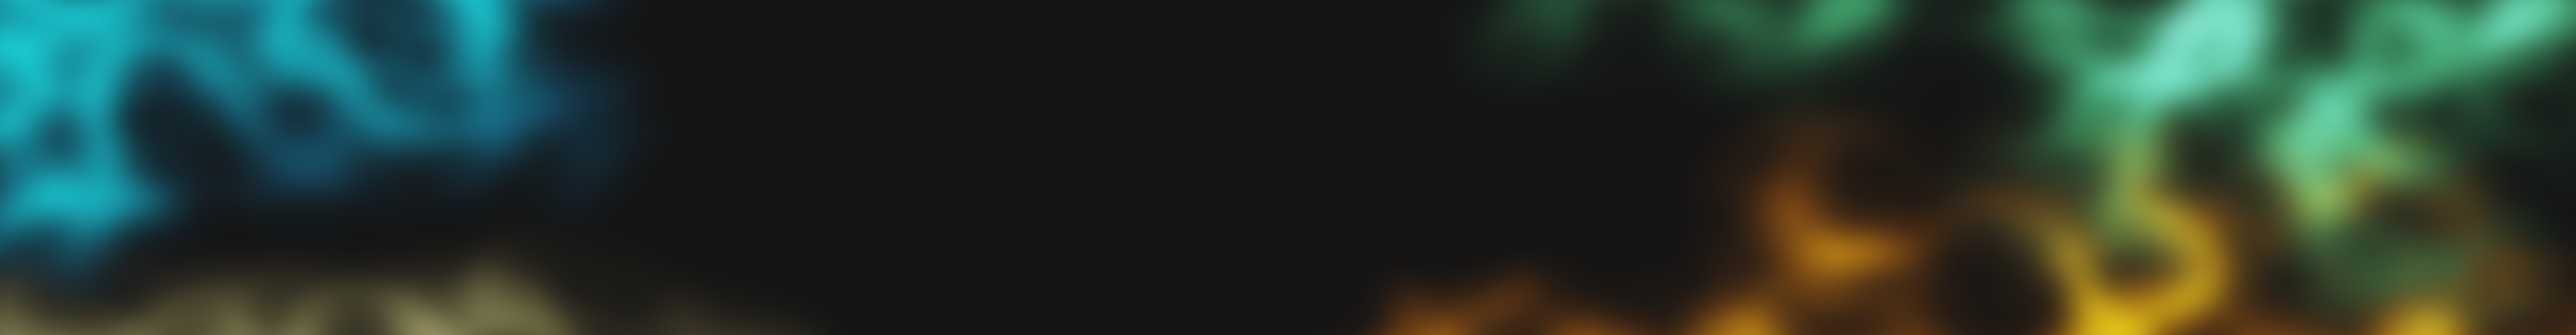
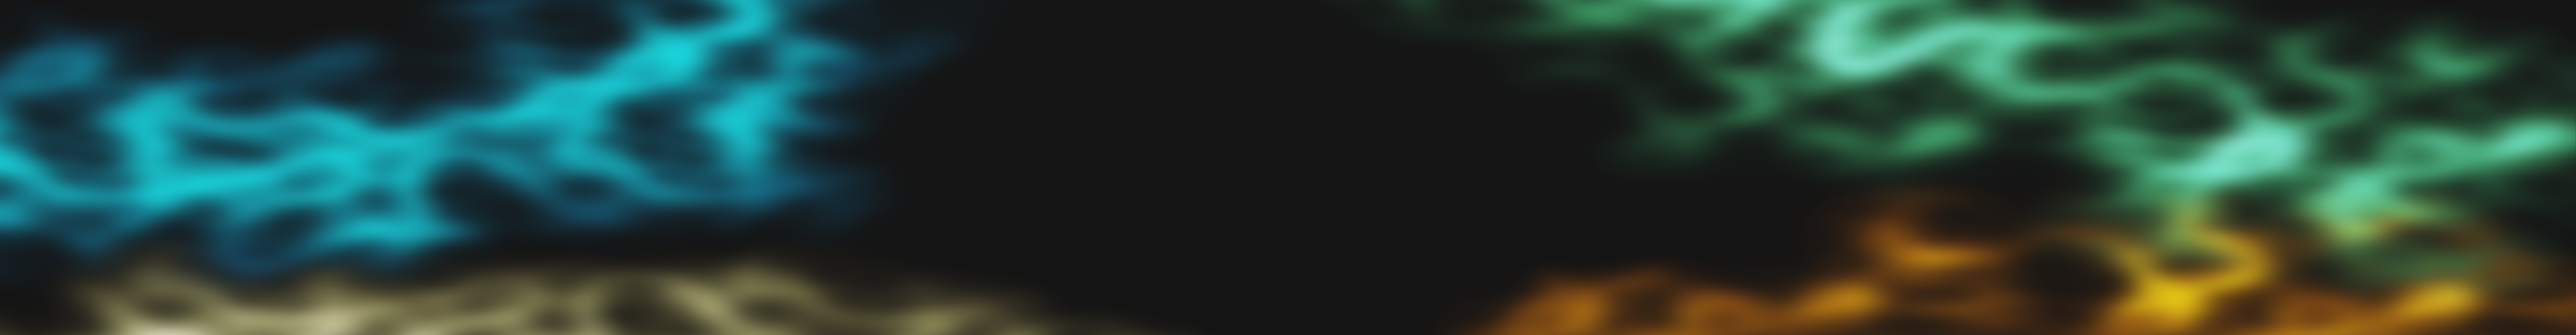
auto deploy:Web3

diff --git a/public/about/index.html b/public/about/index.html
@@ -330,11 +330,11 @@ var theme = {"ajaxurl":"","addico":"https:\/\/nav.baidu.cn\/wp-content\/themes\/
     }
 })();
 
-$("#search-bg").css("background-image", "url(assets\/images\/bg2.png)");   
+$("#search-bg").css("background-image", "url(assets\/images\/bg.png)");   
 function switchNightMode(){
     var night = document.cookie.replace(/(?:(?:^|.*;\s*)night\s*\=\s*([^;]*).*$)|^.*$/, "$1") || '0';
     if(night == '0'){
-	$("#search-bg").css("background-image", "url(assets\/images\/bg2.png)");
+	$("#search-bg").css("background-image", "url(assets\/images\/bg.png)");
         document.body.classList.remove('io-grey-mode');
         document.body.classList.add('io-black-mode');
         document.cookie = "night=1;path=/"

diff --git a/public/blog/index.html b/public/blog/index.html
@@ -329,11 +329,11 @@ var theme = {"ajaxurl":"","addico":"https:\/\/nav.baidu.cn\/wp-content\/themes\/
     }
 })();
 
-$("#search-bg").css("background-image", "url(assets\/images\/bg2.png)");   
+$("#search-bg").css("background-image", "url(assets\/images\/bg.png)");   
 function switchNightMode(){
     var night = document.cookie.replace(/(?:(?:^|.*;\s*)night\s*\=\s*([^;]*).*$)|^.*$/, "$1") || '0';
     if(night == '0'){
-	$("#search-bg").css("background-image", "url(assets\/images\/bg2.png)");
+	$("#search-bg").css("background-image", "url(assets\/images\/bg.png)");
         document.body.classList.remove('io-grey-mode');
         document.body.classList.add('io-black-mode');
         document.cookie = "night=1;path=/"

diff --git a/public/index.html b/public/index.html
@@ -940,11 +940,11 @@ var theme = {"ajaxurl":"","addico":"https:\/\/nav.baidu.cn\/wp-content\/themes\/
     }
 })();
 
-$("#search-bg").css("background-image", "url(assets\/images\/bg2.png)");   
+$("#search-bg").css("background-image", "url(assets\/images\/bg.png)");   
 function switchNightMode(){
     var night = document.cookie.replace(/(?:(?:^|.*;\s*)night\s*\=\s*([^;]*).*$)|^.*$/, "$1") || '0';
     if(night == '0'){
-	$("#search-bg").css("background-image", "url(assets\/images\/bg2.png)");
+	$("#search-bg").css("background-image", "url(assets\/images\/bg.png)");
         document.body.classList.remove('io-grey-mode');
         document.body.classList.add('io-black-mode');
         document.cookie = "night=1;path=/"

diff --git a/public/test/index.html b/public/test/index.html
@@ -329,11 +329,11 @@ var theme = {"ajaxurl":"","addico":"https:\/\/nav.baidu.cn\/wp-content\/themes\/
     }
 })();
 
-$("#search-bg").css("background-image", "url(assets\/images\/bg2.png)");   
+$("#search-bg").css("background-image", "url(assets\/images\/bg.png)");   
 function switchNightMode(){
     var night = document.cookie.replace(/(?:(?:^|.*;\s*)night\s*\=\s*([^;]*).*$)|^.*$/, "$1") || '0';
     if(night == '0'){
-	$("#search-bg").css("background-image", "url(assets\/images\/bg2.png)");
+	$("#search-bg").css("background-image", "url(assets\/images\/bg.png)");
         document.body.classList.remove('io-grey-mode');
         document.body.classList.add('io-black-mode');
         document.cookie = "night=1;path=/"
